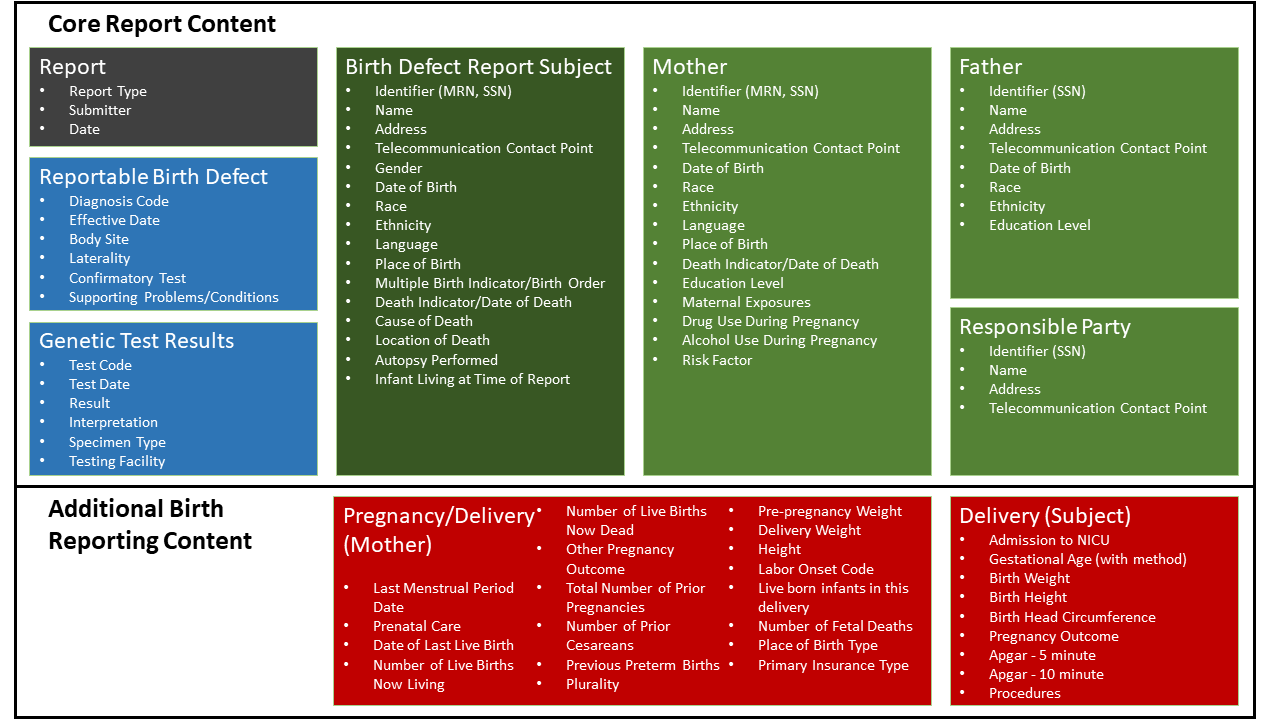
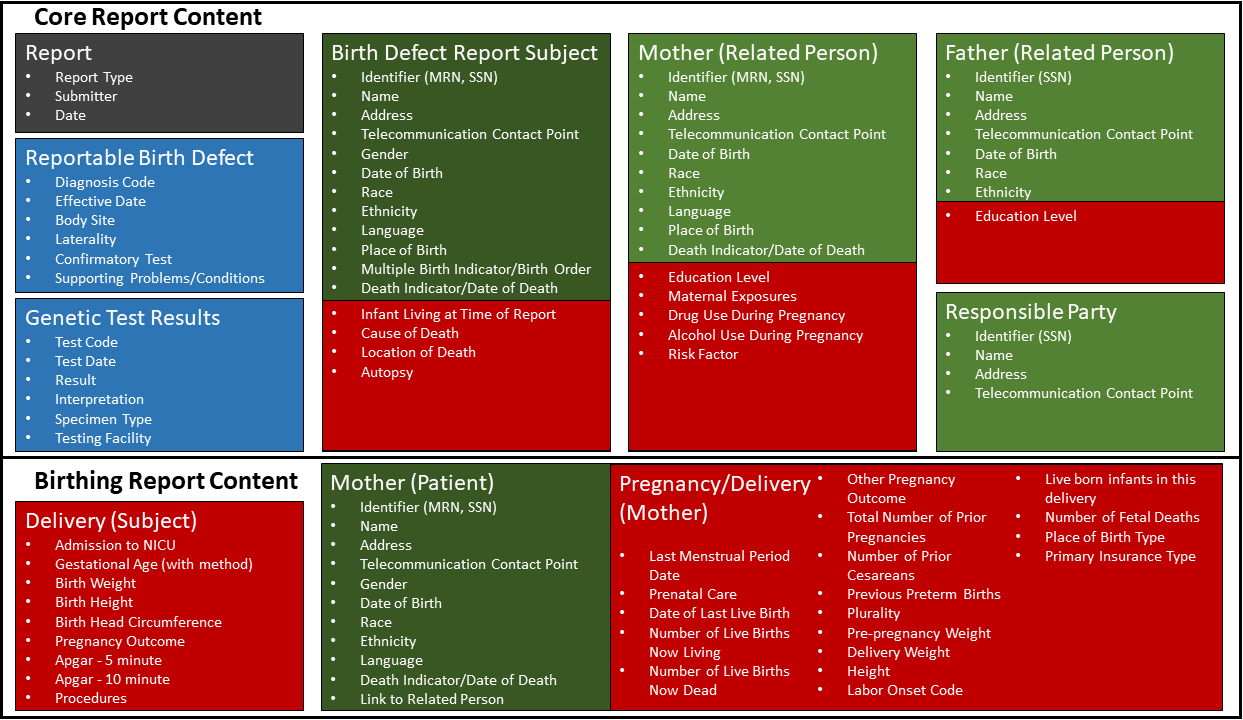
content updates

diff --git a/fsh/ig-data/input/pagecontent/2_UseCases.md b/fsh/ig-data/input/pagecontent/2_UseCases.md
@@ -1,5 +1,5 @@
 # Reporting Contexts
-Providers reporting to birth defect registries may be operating in a variety of different healthcare contexts including ambulatory, outpatient and hospital settings. While the core data elements of the birth defect diagnoses report is substantially similar regardless of the submitter's context, when the report is generated as part of the delivery encounter at a birthing facility the expectations of the receiving jurisdictional program for data relating to the pregnancy and delivery encounter may be higher. Implementers of this IG should be prepared to exchange any of the data elements described within depending on the nature of the submitter and the local requirements for reporting.
+Providers reporting to birth defect registries may be operating in a variety of different healthcare contexts including ambulatory, outpatient and hospital settings. While the core data elements of the birth defect diagnoses report is substantially similar regardless of the submitter's context, when the report is generated as part of the delivery encounter at a birthing facility the expectations of the receiving jurisdictional program for data relating to the pregnancy and delivery encounter may be higher. Implementers of this IG should be prepared to exchange any of the data elements described within depending on the nature of the submitter and the local requirements for reporting (see below for more details).
 
 # Actors
 The primary actors in the provider reporting use case are:
@@ -22,15 +22,17 @@ The following basic assumptions apply regardless of the reporting context:
 * The EHR or an associated app has the capability to create an electronic report (FHIR resources) in conformance with the structure and content standards specified in this implementation guide. 
 * The EHR has the capability to transmit the generated report, using the appropriate transport method(s) and network(s). 
 
+# Report Content
+Depending on the context of the report the clinical content of the report may vary. At a minimum, all reports should contain a central core of data including a Patient (report subject) resource, an Observation (indicating if the subject was living at the time of reporting) resource and one or more Condition (Reportable Diagnosis) resources. Additional RelatedPerson resources containing data on the Mother, Father and/or Responsible Party are strongly encouraged. Note the additional Observation resources related to the Mother or Father may also be present to indicate parental education level and maternal characteristics (eg. possible drug and alcohol use, risk factors and exposures). As described further below, genetic testing results may also be included as clinical content.
+
+When the report is generated as part of the delivery encounter at a birthing facility the clinical content of the report should include additional data related to the pregnancy and delivery. The inclusion of Observation resources related to the pregnancy (eg. prenatal care, previous pregnancies, maternal vitals) require the presence of a Patient (mother) resource to act as the subject of the relationship.  Inclusion of Observation resources related to the newborn (eg. APGAR scores and newborn vitals) and newborn Procedure resources are also strongly encouraged to be included as clinical content in the report.
+
 # Transport Option
 The primary option for transmitting the content in this implementation guide is the use of FHIR Messaging. FHIR Messaging involves the use of a top-level FHIR Message bundle and then a small FHIR Messaging header. FHIR Messaging enables the movement of content through an information exchange intermediary and allows, but does not require, a store and forward exchange paradigm. The FHIR Message header includes the identity of the ultimate intended recipient and other information helpful for message exchange. All resources should be populated in the FHIR Message bundle because subsequent retrieval of resources back through an intermediary may not be enabled.
 
 The following profiles have been defined for the FHIR Messaging Option:
 *BDR Report Bundle
 *BDR MessageHeader
-
-# Guidance for When There is no Subject Record
-TBD - what are the implications of reporting on stillborns, miscarriages and elective terminations when there may be no Subject (Patient) record? Is a Mother (Patient) record with data relating to her sufficient? The Condition resource does require a .subject pointing to a Patient record. Or is the Subject (Patient) record just a bare minimum of data? This could have implications for things like the date of birth.
 
 # Guidance for Reporting Genetic Testing
 A subset of genetic tests may be important to include in birth defect reports. Genetic test results may be reported using the US Core DiagnosticReport profile. The scope of tests may vary by jurisdiction but could include test types such as:

diff --git a/fsh/ig-data/input/pagecontent/1_Scope.md b/fsh/ig-data/input/pagecontent/1_Scope.md
@@ -17,16 +17,18 @@ Individual data elements can be mapped to specific resource profiles defined by 
 
 ![Birth Defect Report Data Content Mapping](profilemappings.png)
 
+# Related Documents
+HL7 has previous published a [CDA Implementation Guide for birth defect reporting] (http://www.hl7.org/implement/standards/product_brief.cfm?product_id=428). While the content of this document varies slightly from the CDA IG, the core data content of both documents is described in the HL7 Vital Records Domain Analysis Model (DAM).
+
+Many of the data elements described in this document overlap with elements critical to birth and fetal death reporting as described in the BAFD FHIR IG <add link>. The project teams for both Birth Defect Reporting and Birth and Fetal Death Reporting have coordinated activities to ensure reusable profiles have been used where possible resulting in the development of the Vital Records Common Profiles Library FHIR IG <add link>. Many of the profiles used by this implementation guide originate in the common profile library.
+
 # Patient Scope
-In many jurisdictions, the scope of birth defect reporting focuses on subject under the age of 24 months. Jurisdictional requirements may extend the scope to include older subjects (e.g. those under 12 years of age) if the birth defect is not diagnosed at an earlier age. Typically however, reporting  does not extend to adult subjects. Reporting requirements often include both living and deceased subjects and may include stillborn subjects, miscarriages and elective terminations as determined by jurisdictional scope.
+In many jurisdictions, the scope of birth defect reporting focuses on subject under the age of 24 months. Jurisdictional requirements may extend the scope to include older subjects (e.g. those under 12 years of age) if the birth defect is not diagnosed at an earlier age. Typically however, reporting  does not extend to adult subjects. 
+
+Reporting requirements often include both living and deceased subjects and may include stillborn subjects, miscarriages and elective terminations as determined by jurisdictional scope. This implementation guide provides profiles for both scenarios. The Patient - Child profile should be used for reporting where the report subject was a live birth. The Patient - Decedent Fetus profile should be used to report on stillborn subjects, miscarriages and elective terminations as necessary. As well, it should be noted that the Patient - Mother profile is used when the report contains pregnancy/delivery information in the form of Observations where the subject of the Observation is the birth mother.
 
 # Context in the Larger Reporting Framework
 From the perspective of the jurisdictional birth defect registry, a birth defect case for a given subject may be comprised of data collected from multiple sources submitted over an extended time period. Compiled cases may then shared with or reported to national programs. For the purposes of this Implementation Guide, we will focus on the requirements for providers and organizations to submit reports containing birth defect related data to the jurisdictional birth defect registry. The consolidation of data from these reports by the jurisdiction into a larger case, and the reporting of that case data to a national consumer may be the subject of future iterations of this specification. 
-
-# Related Documents
-HL7 has previous published a CDA Implementation Guide for birth defect reporting. While the content of this document varies slightly from the CDA IG, the core data content of both documents is described in the HL7 Vital Records Domain Analysis Model (DAM).
-
-Many of the data elements described in this document overlap with elements critical to birth and fetal death reporting as described in the BAFD FHIR IG. The project teams for both Birth Defect Reporting and Birth and Fetal Death Reporting have coordinated activities to ensure reusable profiles have been used where possible. 
 
 # Usage in Other Realms
 While this document is US Realm specific, the constraints and content of this specification may be applicable to other jurisdictions.
